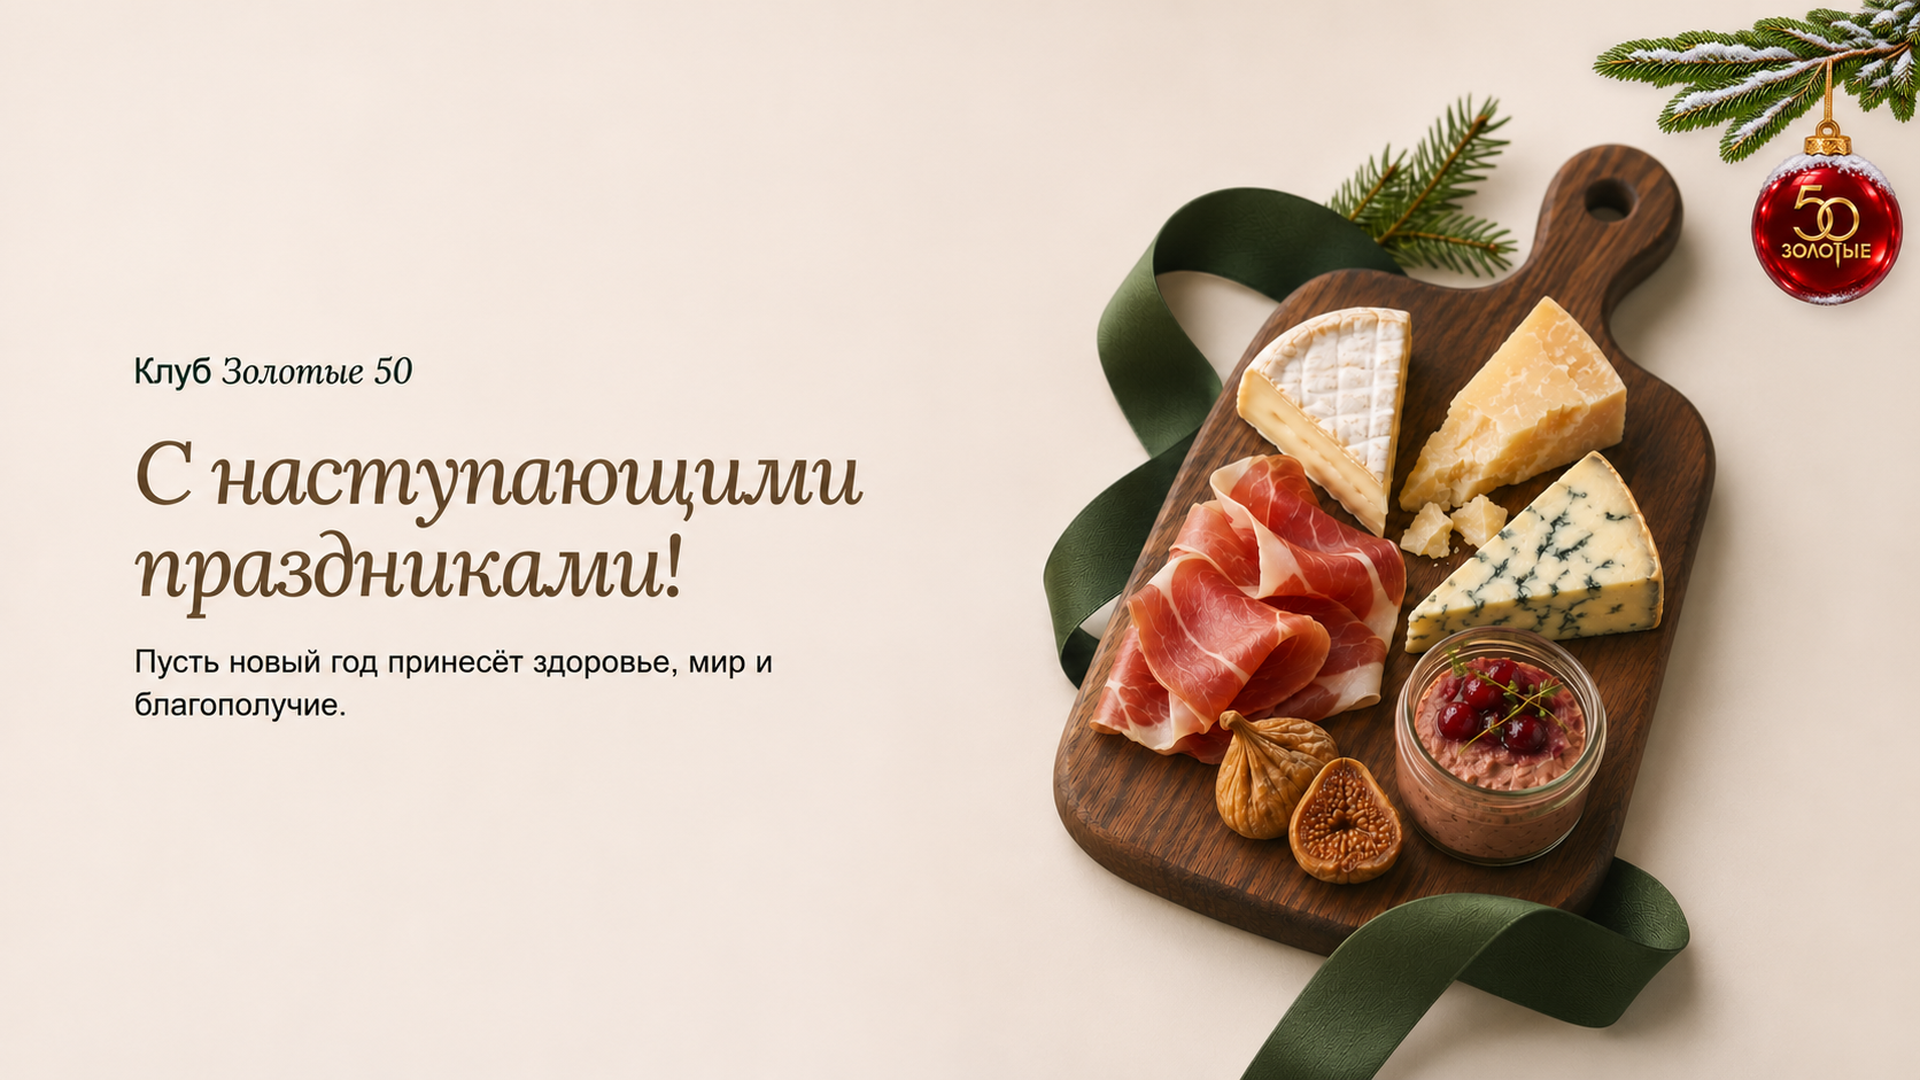
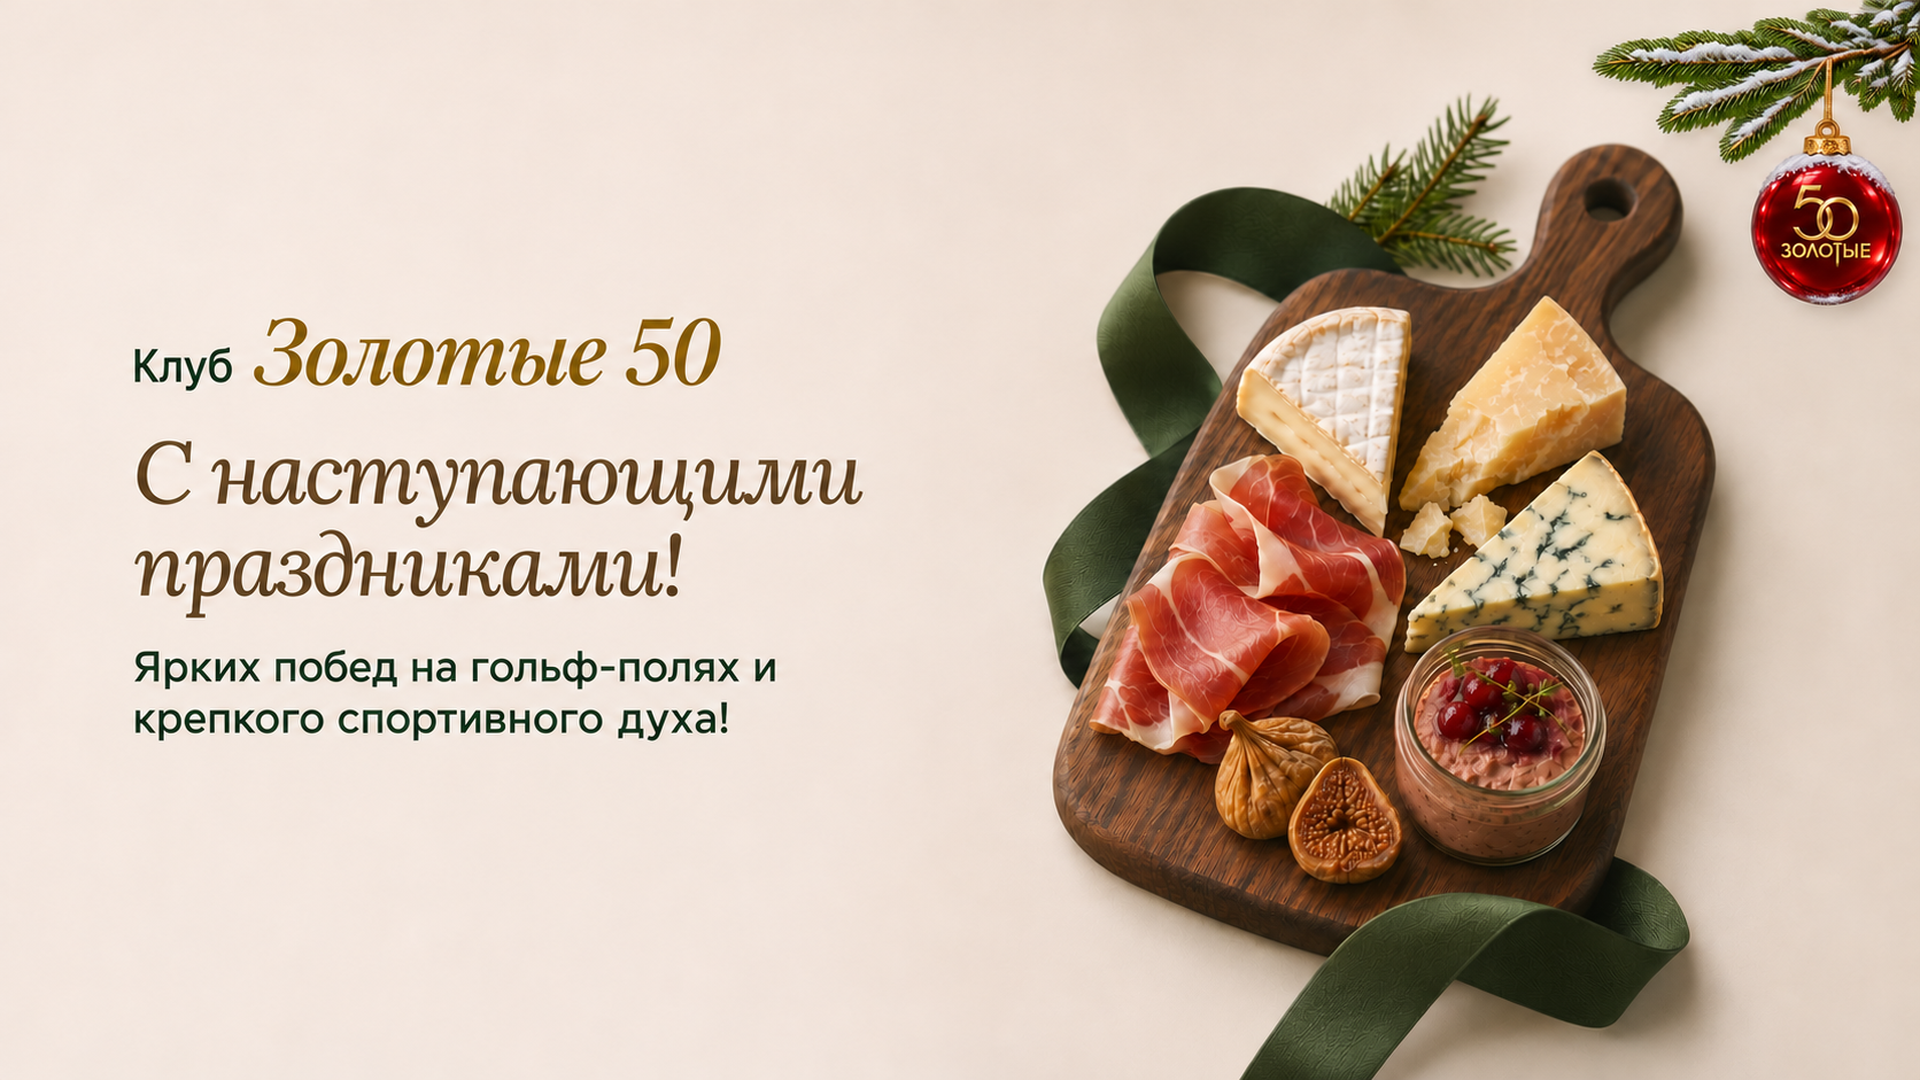
Update Golden 50 final greeting for the golf club

diff --git a/assets/50-gold.html b/assets/50-gold.html
@@ -369,11 +369,18 @@ body.postcard-finale .gold50-corner-ornament{display:none}
  .product-bauble-front,.product-bauble-flip .product-bauble-note{inset:0;width:100%;height:100%;aspect-ratio:auto;border-radius:50%;clip-path:circle(50% at center)}
  .product-ball-outline{display:block;position:absolute;inset:0;width:100%;height:100%;border:1px solid #956f48;box-shadow:inset 0 0 0 1px #fff6;z-index:2;border-radius:50%;pointer-events:none}
 }
+
+/* Larger club ornament, with a dedicated mobile header area. */
+.gold50-corner-ornament{width:clamp(150px,20vw,290px);top:calc(env(safe-area-inset-top) - 8px);right:calc(env(safe-area-inset-right) - 10px)}
+@media(max-width:600px){
+ .gold50-corner-ornament{width:clamp(108px,30vw,132px);top:calc(env(safe-area-inset-top) - 6px);right:calc(env(safe-area-inset-right) - 5px)}
+ body.winter-cover main,body.box-stage main,body.products-stage main,body.wish-stage main{padding-top:max(106px,calc(env(safe-area-inset-top) + 106px))}
+}
 </style>
 <main>
 <section id="editor" hidden></section>
 <section class="stage" id="stage" hidden><div id="scene"></div><nav class="row" aria-label="Главы"><button id="back">Назад</button><span id="progress"></span><button id="edit">К настройкам</button></nav></section>
-</main><nav class="story-arrows" aria-label="Перелистывание открытки"><button type="button" id="story-prev" aria-label="Предыдущий экран"><span aria-hidden="true"></span></button><button type="button" id="story-next" aria-label="Следующий экран"><span aria-hidden="true"></span></button></nav><img class="gold50-corner-ornament" alt="" aria-hidden="true" draggable="false" src="assets/gold50-corner.webp" srcset="assets/gold50-corner-mobile.webp 280w, assets/gold50-corner.webp 820w" sizes="(max-width: 600px) 86px, (max-width: 1400px) 13.2vw, 187px">
+</main><nav class="story-arrows" aria-label="Перелистывание открытки"><button type="button" id="story-prev" aria-label="Предыдущий экран"><span aria-hidden="true"></span></button><button type="button" id="story-next" aria-label="Следующий экран"><span aria-hidden="true"></span></button></nav><img class="gold50-corner-ornament" alt="" aria-hidden="true" draggable="false" src="assets/gold50-corner.webp" srcset="assets/gold50-corner-mobile.webp 280w, assets/gold50-corner.webp 820w" sizes="(max-width: 600px) 132px, (max-width: 1450px) 20vw, 290px">
 <dialog id="detail"><form method="dialog"><button>Закрыть</button></form><div id="detail-content"></div></dialog>
 <template id="product-template"><div class="product"><div class="row"><strong></strong><button type="button" class="remove">Удалить</button></div><div class="grid">
 <label>Название товара<input data-field="name" maxlength="120"></label>
@@ -381,7 +388,7 @@ body.postcard-finale .gold50-corner-ornament{display:none}
 <label>Или загрузите фото<input data-field="file" type="file" accept="image/jpeg,image/png,image/webp,image/gif,image/avif"></label>
 <label>Ссылка на страницу товара<input data-field="link" type="url"></label>
 </div><label>Описание товара<textarea data-field="description" rows="3" maxlength="3000"></textarea></label></div></template>
-<script id="gift-data" type="application/json">{"to":"Уважаемые партнёры","from":"Золотые 50","relation":"Коллега","secret":false,"opening":"Поздравляем вас с наступающими праздниками!","wishes":["Тепла и уюта для вашего дома","Мира, любви, благополучия и счастья","Крепкого здоровья и новых свершений","Любви"],"letter":"Уважаемые партнёры!\n\nСпасибо за совместную работу и доверие. Пусть праздничные дни принесут тепло и уют, а в новом году будет больше поводов собраться за одним столом с близкими. Желаем вам мира, здоровья, любви и благополучия.\n\nС наилучшими пожеланиями,\nЗолотые 50","postcard":"С наступающими праздниками!\nПусть новый год принесёт здоровье, мир и благополучие.","board":"assets/05066475343c3279.png","items":[{"name":"Коровий Tartuffo с трюфелем","description":"В подарке — 150 г\n\nСыр из коровьего молока на чёрном летнем трюфеле.","photo":"assets/5b5a5e9f931ca771.webp","link":"https://kollektiv.store/product/tartuffo-koroviy"},{"name":"Roemer Sweet","description":"В подарке — 150 г\n\nВыдержанный сыр со сладковатым вкусом и ореховыми нотками.","photo":"https://gkldfxitmdscimzrfvso.supabase.co/storage/v1/object/public/product-images/2026/1789452412609-483e3517-88e9-418c-9412-4816961e3a8b.webp","link":"https://kollektiv.store/product/roemer-sweet"},{"name":"Chèvrano XO","description":"В подарке — 150 г\n\nКозий сыр, выдержанный 12 месяцев.","photo":"https://gkldfxitmdscimzrfvso.supabase.co/storage/v1/object/public/product-images/2026/1789452977528-d030175b-4696-4473-9cd8-237947f7e89f.webp","link":"https://kollektiv.store/product/shevrano-xo"},{"name":"Испанский хамон","description":"В подарке — 100 г\n\nХамон Серрано.","photo":"assets/4a811d7bd91f839c.jpg","link":"https://kollektiv.store/product/hamon-alma-c79827"},{"name":"Бастурма","description":"В подарке — 200 г\n\nБастурма из мраморной говядины.","photo":"https://gkldfxitmdscimzrfvso.supabase.co/storage/v1/object/public/product-images/2026/1789413324498-388d5b7b-5209-47c8-be5e-53ba37e20900.webp","link":"https://kollektiv.store/product/basturma-iz-mramornoy-govyadiny"},{"name":"Сыровяленая говяжья вырезка","description":"В подарке — 200 г\n\nСыровяленая говяжья вырезка.","photo":"assets/86abc7579bd9d9ba.webp","link":"https://kollektiv.store/product/vyrezka-govyazhya-syrovyalenaya"},{"name":"Брусничный паштет","description":"В подарке — 150 г\n\nБрусничный паштет из индейки.","photo":"https://gkldfxitmdscimzrfvso.supabase.co/storage/v1/object/public/product-images/2026/1789402629957-b76838f7-81b5-4a13-a745-a5100fa40103.webp","link":"https://kollektiv.store/product/pashtet-brusnichniy-iz-indeyki-2b1e3e"},{"name":"Сушёный инжир","description":"В подарке — 50 г\n\nСушёный инжир из Турции.","photo":"assets/d69583d294c35dae.jpg","link":"https://kollektiv.store/product/inzhir-susheniy-turtsiya"}]}</script>
+<script id="gift-data" type="application/json">{"to":"Уважаемые гольфисты","from":"Золотые 50","relation":"Коллега","secret":false,"opening":"Поздравляем вас с наступающими праздниками!","wishes":["Тепла и уюта для вашего дома","Мира, любви, благополучия и счастья","Крепкого здоровья и новых свершений","Любви"],"letter":"Уважаемые гольфисты!\n\nСпасибо за совместную работу и доверие. Пусть праздничные дни принесут тепло и уют, а в новом году будет больше поводов собраться за одним столом с близкими. Желаем вам мира, здоровья, любви и благополучия.\n\nС наилучшими пожеланиями,\nЗолотые 50","postcard":"С наступающими праздниками!\nЯрких побед на гольф-полях и крепкого спортивного духа!","board":"assets/05066475343c3279.png","items":[{"name":"Коровий Tartuffo с трюфелем","description":"В подарке — 150 г\n\nСыр из коровьего молока на чёрном летнем трюфеле.","photo":"assets/5b5a5e9f931ca771.webp","link":"https://kollektiv.store/product/tartuffo-koroviy"},{"name":"Roemer Sweet","description":"В подарке — 150 г\n\nВыдержанный сыр со сладковатым вкусом и ореховыми нотками.","photo":"https://gkldfxitmdscimzrfvso.supabase.co/storage/v1/object/public/product-images/2026/1789452412609-483e3517-88e9-418c-9412-4816961e3a8b.webp","link":"https://kollektiv.store/product/roemer-sweet"},{"name":"Chèvrano XO","description":"В подарке — 150 г\n\nКозий сыр, выдержанный 12 месяцев.","photo":"https://gkldfxitmdscimzrfvso.supabase.co/storage/v1/object/public/product-images/2026/1789452977528-d030175b-4696-4473-9cd8-237947f7e89f.webp","link":"https://kollektiv.store/product/shevrano-xo"},{"name":"Испанский хамон","description":"В подарке — 100 г\n\nХамон Серрано.","photo":"assets/4a811d7bd91f839c.jpg","link":"https://kollektiv.store/product/hamon-alma-c79827"},{"name":"Бастурма","description":"В подарке — 200 г\n\nБастурма из мраморной говядины.","photo":"https://gkldfxitmdscimzrfvso.supabase.co/storage/v1/object/public/product-images/2026/1789413324498-388d5b7b-5209-47c8-be5e-53ba37e20900.webp","link":"https://kollektiv.store/product/basturma-iz-mramornoy-govyadiny"},{"name":"Сыровяленая говяжья вырезка","description":"В подарке — 200 г\n\nСыровяленая говяжья вырезка.","photo":"assets/86abc7579bd9d9ba.webp","link":"https://kollektiv.store/product/vyrezka-govyazhya-syrovyalenaya"},{"name":"Брусничный паштет","description":"В подарке — 150 г\n\nБрусничный паштет из индейки.","photo":"https://gkldfxitmdscimzrfvso.supabase.co/storage/v1/object/public/product-images/2026/1789402629957-b76838f7-81b5-4a13-a745-a5100fa40103.webp","link":"https://kollektiv.store/product/pashtet-brusnichniy-iz-indeyki-2b1e3e"},{"name":"Сушёный инжир","description":"В подарке — 50 г\n\nСушёный инжир из Турции.","photo":"assets/d69583d294c35dae.jpg","link":"https://kollektiv.store/product/inzhir-susheniy-turtsiya"}]}</script>
 <script>
 'use strict';
 const get = id => document.getElementById(id);
@@ -1099,7 +1106,7 @@ function preloadNextScreen(){
 function finale() {
   const title=element('h2','С наступающими праздниками!','final-postcard-title');
   const card=element('img','','final-postcard');
-  card.alt='Клуб Золотые 50. С наступающими праздниками! Пусть новый год принесёт здоровье, мир и благополучие. На открытке — гастрономическая доска и красный шарик с золотым логотипом клуба.';
+  card.alt='Клуб Золотые 50. С наступающими праздниками! Ярких побед на гольф-полях и крепкого спортивного духа! На открытке — гастрономическая доска и красный шарик с золотым логотипом клуба.';
   const picture=element('picture','','final-postcard-picture');
   const mobile=element('source');
   mobile.media=portraitMedia;
